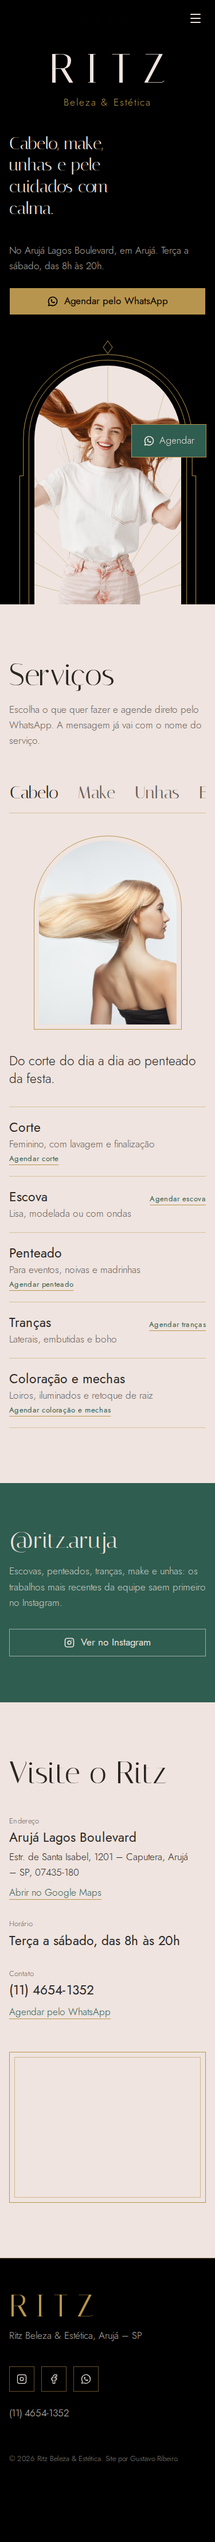
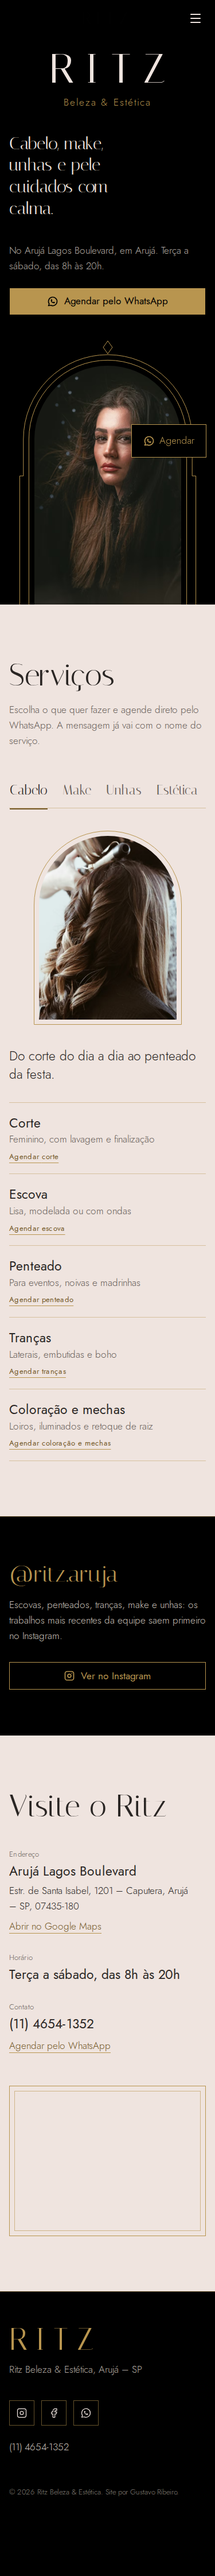
feat: black and gold palette and new editorial photos
- drop jade: instagram band, floating book button and primary now use
  laca/latão; text links on marfim use a darker brass (5.3:1 contrast)
- replace stock hero cutout and service photos with warm, editorial
  Unsplash images; arch window is now a full-bleed dark portrait
- allow per-category object-position for service images
- credit photographers in README and refresh screenshots

diff --git a/src/config/salon.ts b/src/config/salon.ts
@@ -1,9 +1,9 @@
 import type { StaticImageData } from 'next/image';
 
-import cabelos from '@/assets/services/cabelos.png';
-import makeup from '@/assets/services/makeup.png';
-import manicure from '@/assets/services/manicure.png';
-import tratamentoFacial from '@/assets/services/tratamento-facial.png';
+import cabelo from '@/assets/services/cabelo.jpg';
+import estetica from '@/assets/services/estetica.jpg';
+import make from '@/assets/services/make.jpg';
+import unhas from '@/assets/services/unhas.jpg';
 
 /**
  * Dados do salão em um só lugar. Fonte: Instagram @ritz.aruja.
@@ -54,6 +54,8 @@ export type ServiceCategory = {
   summary: string;
   image: StaticImageData;
   imageAlt: string;
+  /** Classe object-position do Tailwind, para fotos que pedem outro recorte. */
+  imagePosition?: string;
   services: { name: string; detail: string }[];
 };
 
@@ -63,8 +65,8 @@ export const serviceCategories: ServiceCategory[] = [
     id: 'cabelo',
     name: 'Cabelo',
     summary: 'Do corte do dia a dia ao penteado da festa.',
-    image: cabelos,
-    imageAlt: 'Mulher de costas com cabelo loiro longo em movimento',
+    image: cabelo,
+    imageAlt: 'Cabelo castanho com mechas iluminadas e cachos modelados',
     services: [
       { name: 'Corte', detail: 'Feminino, com lavagem e finalização' },
       { name: 'Escova', detail: 'Lisa, modelada ou com ondas' },
@@ -80,8 +82,8 @@ export const serviceCategories: ServiceCategory[] = [
     id: 'make',
     name: 'Make',
     summary: 'Maquiagem que acompanha a ocasião, não esconde você.',
-    image: makeup,
-    imageAlt: 'Maquiadora aplicando sombra com pincel em uma cliente',
+    image: make,
+    imageAlt: 'Close de olho com sombra dourada recebendo máscara de cílios',
     services: [
       {
         name: 'Maquiagem social',
@@ -94,8 +96,8 @@ export const serviceCategories: ServiceCategory[] = [
     id: 'unhas',
     name: 'Unhas',
     summary: 'Cuidado de mãos e pés com acabamento impecável.',
-    image: manicure,
-    imageAlt: 'Mãos com esmaltação clara sobre mesa de manicure rosa',
+    image: unhas,
+    imageAlt: 'Mão com unhas em esmalte nude sobre tecido claro',
     services: [
       { name: 'Manicure', detail: 'Cutilagem e esmaltação' },
       { name: 'Pedicure', detail: 'Cutilagem, lixamento e esmaltação' },
@@ -105,8 +107,9 @@ export const serviceCategories: ServiceCategory[] = [
     id: 'estetica',
     name: 'Estética',
     summary: 'Pele cuidada e depilação com conforto.',
-    image: tratamentoFacial,
-    imageAlt: 'Cliente deitada recebendo tratamento facial',
+    image: estetica,
+    imagePosition: 'object-[72%_50%]',
+    imageAlt: 'Mãos fazendo massagem facial em ambiente à luz de vela',
     services: [
       {
         name: 'Tratamento facial',

diff --git a/src/components/deco-arch.tsx b/src/components/deco-arch.tsx
@@ -10,42 +10,17 @@ type DecoArchProps = {
 // Geometria em um viewBox de 400×580: a janela tem 320 de largura, com o
 // centro do arco em (200, 220) e raio 160. A div da janela reproduz esse
 // recorte com rounded-t-full, então as porcentagens abaixo vêm daí.
-const RAY_ANGLES = [15, 30, 45, 60, 75, 90, 105, 120, 135, 150, 165];
-
 export function DecoArch({ image, alt, className }: DecoArchProps) {
   return (
     <div className={cn('relative aspect-[400/580] w-full', className)}>
-      <div className="absolute top-[10.345%] right-[10%] bottom-0 left-[10%] animate-unveil overflow-hidden rounded-t-full bg-marfim motion-reduce:animate-none">
-        <svg
-          aria-hidden
-          viewBox="0 0 320 520"
-          className="absolute inset-0 size-full"
-          preserveAspectRatio="xMidYMax slice"
-        >
-          {RAY_ANGLES.map((angle) => {
-            const rad = (angle * Math.PI) / 180;
-            return (
-              <line
-                key={angle}
-                x1={160}
-                y1={520}
-                x2={160 + Math.cos(rad) * 640}
-                y2={520 - Math.sin(rad) * 640}
-                stroke="var(--latao)"
-                strokeOpacity={0.45}
-                strokeWidth={1}
-                vectorEffect="non-scaling-stroke"
-              />
-            );
-          })}
-        </svg>
+      <div className="absolute top-[10.345%] right-[10%] bottom-0 left-[10%] animate-unveil overflow-hidden rounded-t-full bg-laca motion-reduce:animate-none">
         <Image
           src={image}
           alt={alt}
           priority
           placeholder="blur"
           sizes="(min-width: 1024px) 22rem, 80vw"
-          className="absolute inset-0 size-full object-cover object-top"
+          className="absolute inset-0 size-full object-cover object-[50%_30%]"
         />
       </div>
 

diff --git a/src/components/visit.tsx b/src/components/visit.tsx
@@ -30,7 +30,7 @@ export function Visit() {
                   href={mapsUrl}
                   target="_blank"
                   rel="noopener noreferrer"
-                  className="text-jade underline decoration-latao underline-offset-6 hover:decoration-jade"
+                  className="text-latao-escuro underline decoration-latao underline-offset-6 transition-colors hover:text-grafite hover:decoration-latao-escuro"
                 >
                   Abrir no Google Maps
                 </a>
@@ -45,7 +45,10 @@ export function Visit() {
             <div>
               <dt className="text-sm tracking-wide text-nevoa">Contato</dt>
               <dd className="mt-1 text-xl font-normal">
-                <a href={`tel:${salon.phone.tel}`} className="hover:text-jade">
+                <a
+                  href={`tel:${salon.phone.tel}`}
+                  className="hover:text-latao-escuro"
+                >
                   {salon.phone.display}
                 </a>
               </dd>
@@ -54,7 +57,7 @@ export function Visit() {
                   href={whatsappLink()}
                   target="_blank"
                   rel="noopener noreferrer"
-                  className="text-jade underline decoration-latao underline-offset-6 hover:decoration-jade"
+                  className="text-latao-escuro underline decoration-latao underline-offset-6 transition-colors hover:text-grafite hover:decoration-latao-escuro"
                 >
                   Agendar pelo WhatsApp
                 </a>

diff --git a/src/components/services-menu.tsx b/src/components/services-menu.tsx
@@ -1,6 +1,7 @@
 'use client';
 
 import Image from 'next/image';
+import { cn } from '@/lib/utils';
 import { serviceCategories, whatsappLink } from '@/config/salon';
 import { Tabs, TabsContent, TabsList, TabsTrigger } from '@/components/ui/tabs';
 
@@ -61,7 +62,7 @@ export function ServicesMenu() {
                       href={whatsappLink(service.name)}
                       target="_blank"
                       rel="noopener noreferrer"
-                      className="text-sm font-normal tracking-wide text-jade underline decoration-latao underline-offset-6 transition-colors hover:text-jade-escuro hover:decoration-jade"
+                      className="text-sm font-normal tracking-wide text-latao-escuro underline decoration-latao underline-offset-6 transition-colors hover:text-grafite hover:decoration-latao-escuro"
                     >
                       Agendar {service.name.toLowerCase()}
                       <span className="sr-only"> pelo WhatsApp</span>
@@ -78,7 +79,10 @@ export function ServicesMenu() {
                   alt={category.imageAlt}
                   placeholder="blur"
                   sizes="(min-width: 768px) 20rem, 90vw"
-                  className="size-full object-cover"
+                  className={cn(
+                    'size-full object-cover',
+                    category.imagePosition,
+                  )}
                 />
               </div>
             </figure>

diff --git a/src/app/globals.css b/src/app/globals.css
@@ -4,18 +4,16 @@
 
 /*
  * Paleta Ritz — art déco.
- * laca (preto verdadeiro), latão, marfim rosé, jade, grafite, névoa.
+ * laca (preto verdadeiro), latão, marfim rosé, grafite, névoa.
  * O latão só é usado como texto sobre laca; sobre marfim ele é decorativo
- * (filetes) e o texto/foco usam latão escuro ou jade para manter o contraste.
+ * (filetes) e o texto/foco usam o latão escuro (5.3:1) para manter o contraste.
  */
 :root {
   --laca: #000000;
   --latao: #b8954f;
-  --latao-escuro: #8c6d33;
+  --latao-escuro: #735827;
   --marfim: #efe4df;
   --marfim-claro: #f6efeb;
-  --jade: #2f5d50;
-  --jade-escuro: #234a3f;
   --grafite: #2a2624;
   --nevoa: #665c57;
 
@@ -25,7 +23,7 @@
   --card-foreground: var(--grafite);
   --popover: var(--laca);
   --popover-foreground: var(--marfim);
-  --primary: var(--jade);
+  --primary: var(--laca);
   --primary-foreground: var(--marfim);
   --secondary: var(--marfim-claro);
   --secondary-foreground: var(--grafite);
@@ -49,8 +47,6 @@
   --color-latao-escuro: var(--latao-escuro);
   --color-marfim: var(--marfim);
   --color-marfim-claro: var(--marfim-claro);
-  --color-jade: var(--jade);
-  --color-jade-escuro: var(--jade-escuro);
   --color-grafite: var(--grafite);
   --color-nevoa: var(--nevoa);
 

diff --git a/src/components/instagram-band.tsx b/src/components/instagram-band.tsx
@@ -4,13 +4,10 @@ import { Button } from '@/components/ui/button';
 
 export function InstagramBand() {
   return (
-    <section
-      id="instagram"
-      className="bg-jade text-marfim [--ring:var(--marfim)]"
-    >
+    <section id="instagram" className="border-t border-border on-laca">
       <div className="mx-auto grid max-w-6xl gap-8 px-4 py-20 sm:px-6 md:grid-cols-[1fr_auto] md:items-end md:py-24">
         <div>
-          <h2 className="font-display text-4xl leading-none break-words sm:text-5xl md:text-6xl">
+          <h2 className="font-display text-4xl leading-none break-words text-latao sm:text-5xl md:text-6xl">
             @{salon.instagram.handle}
           </h2>
           <p className="mt-5 max-w-[46ch] text-marfim/85">
@@ -22,7 +19,7 @@ export function InstagramBand() {
           asChild
           variant="outline"
           size="xl"
-          className="w-full border-marfim/60 bg-transparent text-marfim hover:bg-marfim hover:text-jade sm:w-fit"
+          className="w-full border-latao bg-transparent text-latao hover:bg-latao hover:text-laca sm:w-fit"
         >
           <a
             href={salon.instagram.url}

diff --git a/src/components/hero.tsx b/src/components/hero.tsx
@@ -1,5 +1,5 @@
 import { IconBrandWhatsapp } from '@tabler/icons-react';
-import heroImage from '@/assets/ritz-home-background.png';
+import heroImage from '@/assets/hero.jpg';
 import { salon, whatsappLink } from '@/config/salon';
 import { Button } from '@/components/ui/button';
 import { DecoArch } from '@/components/deco-arch';
@@ -49,7 +49,7 @@ export function Hero() {
 
           <DecoArch
             image={heroImage}
-            alt="Mulher sorrindo com longos cabelos ruivos em movimento"
+            alt="Retrato de mulher com longos cabelos castanhos sobre fundo escuro"
             className="mx-auto max-w-[20rem] sm:max-w-[24rem] lg:order-2"
           />
         </div>

diff --git a/src/components/book-button.tsx b/src/components/book-button.tsx
@@ -8,7 +8,7 @@ export function BookButton() {
       href={whatsappLink()}
       target="_blank"
       rel="noopener noreferrer"
-      className="fixed right-4 bottom-4 z-30 flex h-14 items-center gap-2 bg-jade px-5 text-marfim shadow-[0_0_0_1px_var(--latao)] md:hidden"
+      className="fixed right-4 bottom-4 z-30 flex h-14 items-center gap-2 bg-laca px-5 text-latao shadow-[0_0_0_1px_var(--latao)] md:hidden"
     >
       <IconBrandWhatsapp aria-hidden className="size-5" />
       Agendar

diff --git a/README.md b/README.md
@@ -42,6 +42,16 @@ pnpm install
 pnpm dev
 ```
 
+### Photo credits
+
+Photos from [Unsplash](https://unsplash.com/license) (free to use). Replace them with the salon's own photos in `src/assets/` whenever available.
+
+- Hero: [Hamed Farahpour](https://unsplash.com/photos/sOmsarJ6FFc)
+- Cabelo: [Baylee Gramling](https://unsplash.com/photos/a3xr2mVjT5M)
+- Make: [LOLA AZIZADA](https://unsplash.com/photos/I3y-aJ4DWng)
+- Unhas: [Chelson Tamares](https://unsplash.com/photos/vtQHwU4F13s)
+- Estética: [Katherine Hanlon](https://unsplash.com/photos/WAm_HaI4W2E)
+
 ## 💻 Web version
 <h1 align="center">
   <img alt="Web version" src=".github/assets/web.png">
